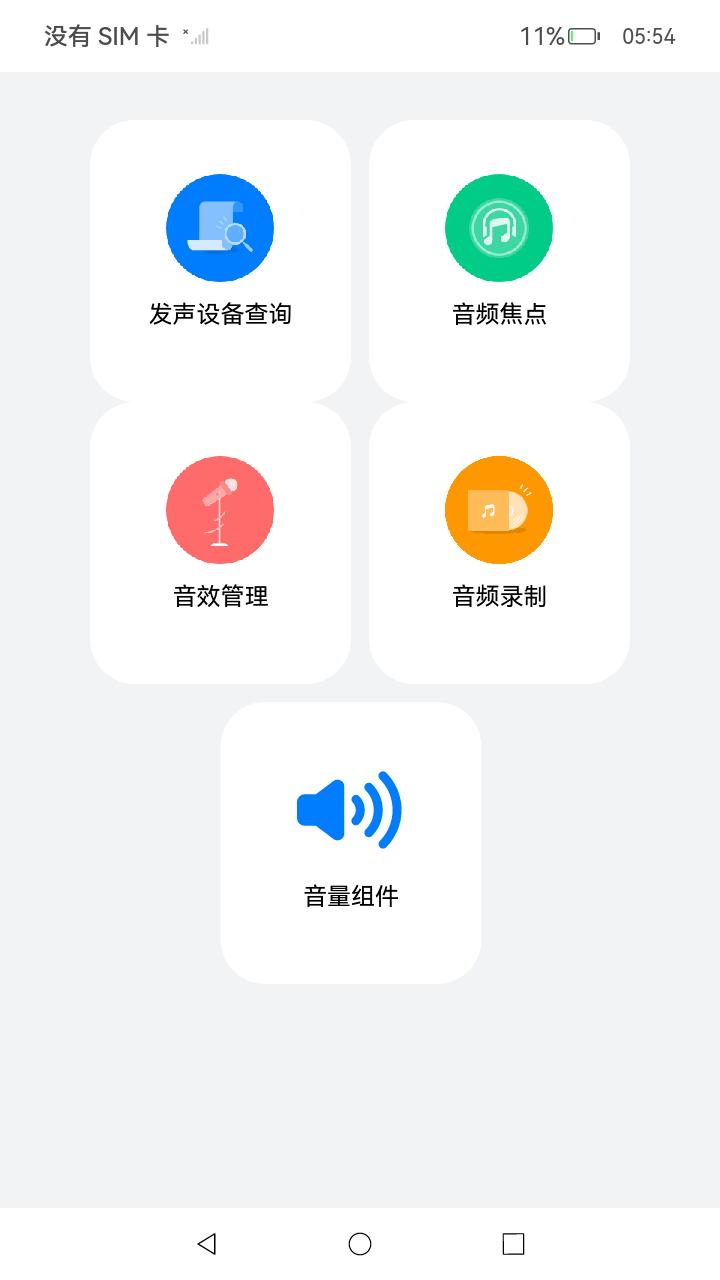
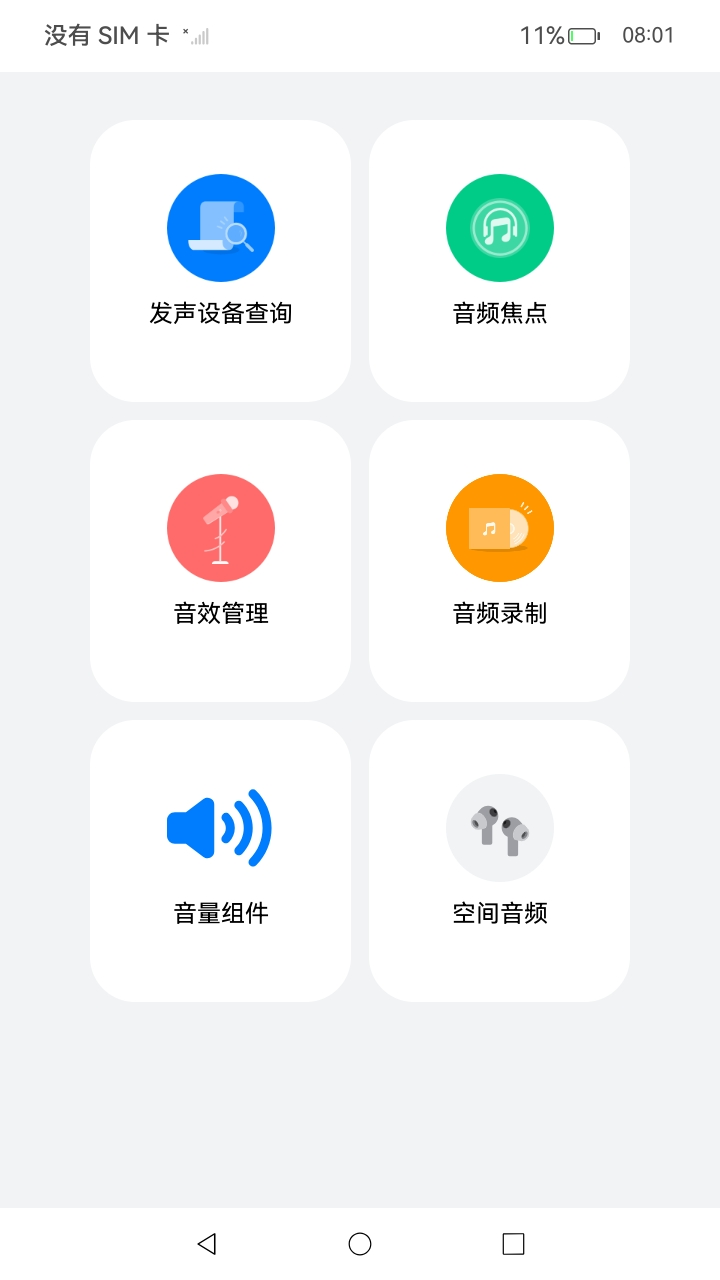
add readme and test

diff --git a/code/BasicFeature/Media/Audio/README.md b/code/BasicFeature/Media/Audio/README.md
@@ -14,9 +14,9 @@
 |-----------------------------------------|----------------------------------------|----------------------------------------|----------------------------------------|
 | ![PresetEffect](screenshots/device/PresetEffect.jpg) | ![RealtimeEffect](screenshots/device/RealtimeEffect.jpg) | ![NormalCapturer](screenshots/device/normal_capturer.jpg) | ![ParallelCapturer](screenshots/device/parallel_capturer.jpg) |
 
-| 音量组件页面                                             | 音量组件页面-<br>音量面板                                                     |
-|----------------------------------------------------|---------------------------------------------------------------------|
-| ![VolumePanel](screenshots/device/VolumePanel.png) | ![VolumePanel](screenshots/device/VolumePanel_ChangeVolumLevel.png) |
+| 音量组件页面                                             | 音量组件页面-<br>音量面板                                                     | 空间音频页面                                           |
+|----------------------------------------------------|---------------------------------------------------------------------|---------------------------------------------------------------------|
+| ![VolumePanel](screenshots/device/VolumePanel.png) | ![VolumePanel](screenshots/device/VolumePanel_ChangeVolumLevel.png) | ![SpatialAudio](screenshots/device/SpatialAudio.jpg) |
 
 使用说明
 
@@ -60,6 +60,14 @@
 36. 在主界面点击“音量组件”按钮，进入音量组件页面
 37. 在音量组件页面，点击“音量+”或“音量-”按钮，弹出音量面板
 38. 在音量组件页面，点击左上方返回图标，回到主页
+39. 在主界面点击“空间音频”按钮，进入空间音频页面
+40. 在空间音频页面，点击“2.0音乐示例”播放器，开始播放立体声音源
+41. 在空间音频页面，当设备不支持空间音频时，“5.0音乐示例”播放器置灰
+42. 在空间音频页面，当设备支持空间音频时，“5.0音乐示例”播放器亮起，点击出现弹窗提示“请开启空间音频”
+43. 在空间音频页面，当设备支持空间音频且空间音频开关已开启时，点击“5.0音乐示例”播放器，开始播放AudioVivid音源
+44. 在空间音频页面，当设备支持空间音频且空间音频开关被打开时，出现弹窗提示“空间音频已开启”
+45. 在空间音频页面，当设备支持空间音频且空间音频开关被关闭时，出现弹窗提示“空间音频已关闭”
+
 
 ### 工程目录
 
@@ -74,6 +82,7 @@ entry/src/main/ets/
 |---|---NormalCapturer.ets                  //音频录制-普通录制
 |---|---ParallelCapturer.ets                //音频录制-并行录制
 |---|---VolumePanel.ets                     //音量组件页面
+|---|---SpatialAudio.ets                    //空间音频页面
 library/
 |---Logger.ts                               //日志打印封装
 ```
@@ -129,12 +138,22 @@ library/
 * 音量组件功能都封装在VolumePanel,源码参考：[VolumePanel.ets](entry/src/main/ets/pages/VolumePanel.ets)
     * 调用AVVolumePanel组件创建音量面板,其中参数volumeLevel属于number类型,用于设置设备音量;参数volumeParameter属于AVVolumePanelParameter类型,用于设置音量面板的自定义参数
     * 点击”音量+”或”音量-”按钮,会传入不同的volumeLevel，从而弹出音量面板
+* 空间音频功能都封装在SpatialAudio,源码参考：[SpatialAudio.ets](entry/src/main/ets/pages/SpatialAudio.ets)
+    * 调用audioRoutingManager.getPreferredOutputDeviceForRendererInfoSync(rendererInfo)获取当前发声设备
+    * 使用audioDeviceDescriptor.SpatializationSupported属性获取设备是否支持空间音频，不支持时“5.0音乐播放示例”将被置灰
+    * 调用isSpatializationEnabledForCurrentDevice()接口查询当前发声设备空间音频开关状态
+    * 调用on("spatializationEnabledChangeForCurrentDevice")接口订阅当前发声设备空间音频空间音频开关状态变化事件
+    * 调用off("spatializationEnabledChangeForCurrentDevice")接口取消订阅当前发声设备空间音频空间音频开关状态变化事件
 
 ### 相关权限
 
 音频录制涉及的权限包括：
 
 1.允许应用使用麦克风：[ohos.permission.MICROPHONE](https://gitee.com/openharmony/docs/blob/master/zh-cn/application-dev/security/AccessToken/permissions-for-all.md#ohospermissionmicrophone)
+
+空间音频涉及的权限包括：
+
+1.允许应用使用蓝牙：[ohos.permission.BLUETOOTH](https://gitee.com/openharmony/docs/blob/master/zh-cn/application-dev/security/AccessToken/permissions-for-all.md#ohospermissionuse_bluetooth)
 
 ### 依赖
 
